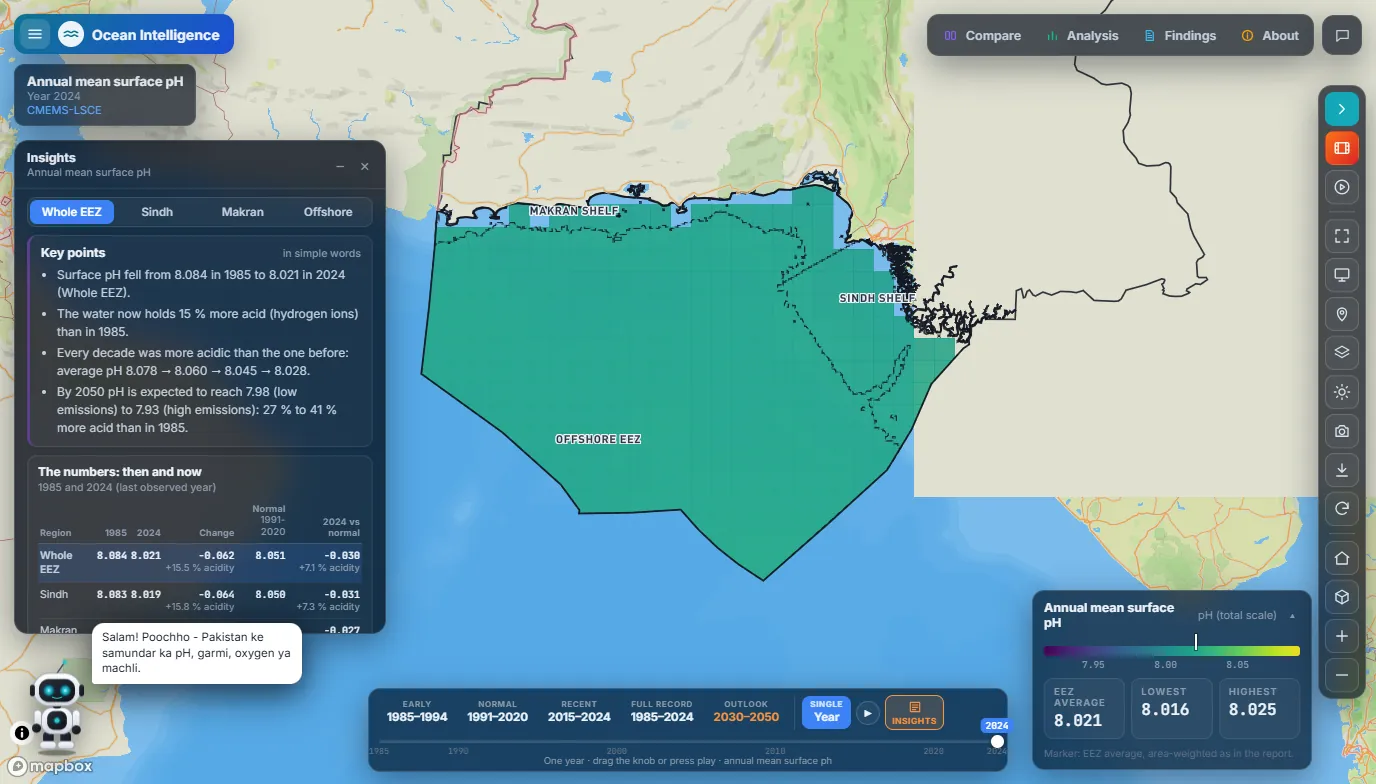
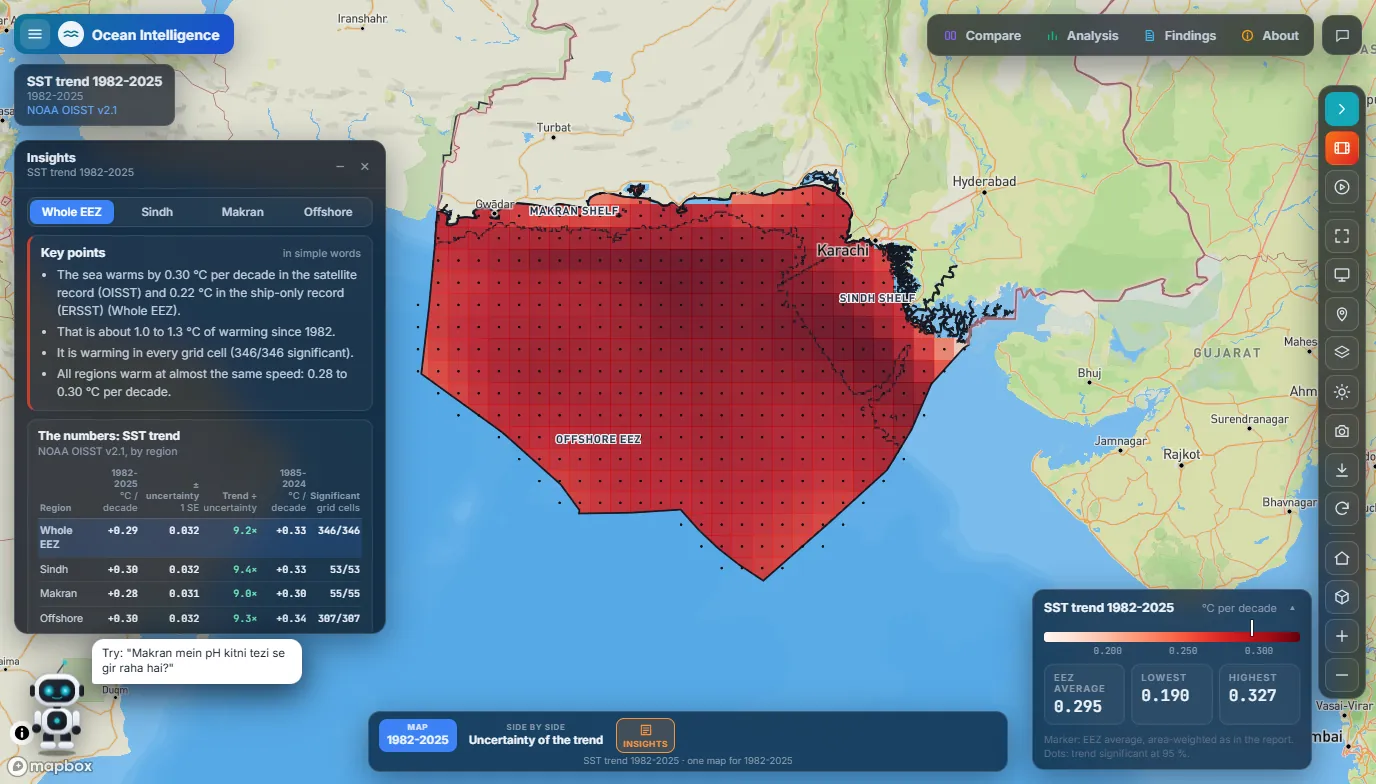
Ocean Intelligence: new preview image

diff --git a/README.md b/README.md
@@ -26,7 +26,7 @@ A portal for NDMA that shows how heat in Pakistan has changed since 1980, and wh
 
 A portal for NDMA that shows how acidity, heat and oxygen in Pakistan's seas have changed since the 1980s, and where they are heading by 2050.
 
-[![Ocean Intelligence: annual mean surface pH across Pakistan's Exclusive Economic Zone, 2024](ocean-intelligence.webp)](https://hasnain061-ai.github.io/#ocean-intelligence)
+[![Ocean Intelligence: sea-surface temperature trend per decade across Pakistan's Exclusive Economic Zone, 1982-2025](ocean-intelligence.webp)](https://hasnain061-ai.github.io/#ocean-intelligence)
 
 - Surface pH in Pakistan's EEZ fell from 8.08 (1985) to 8.02 (2024), about 16% more acidity
 - The sea has warmed by 1.0 to 1.3 °C since 1982; marine heatwave days rose from about 23 to about 100 a year
